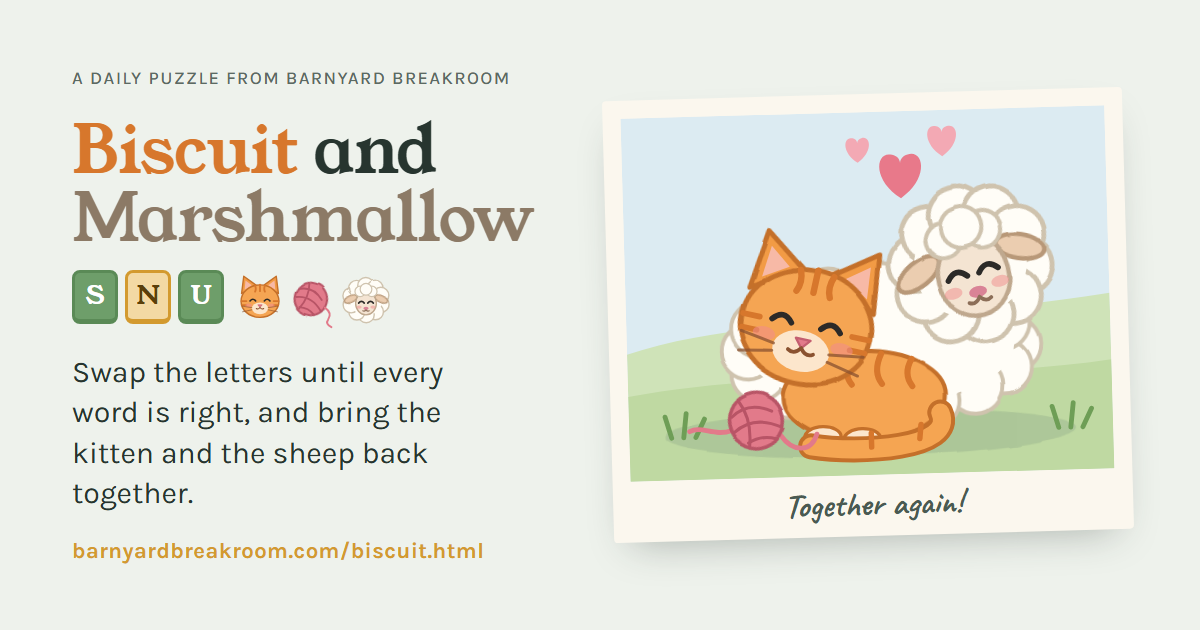
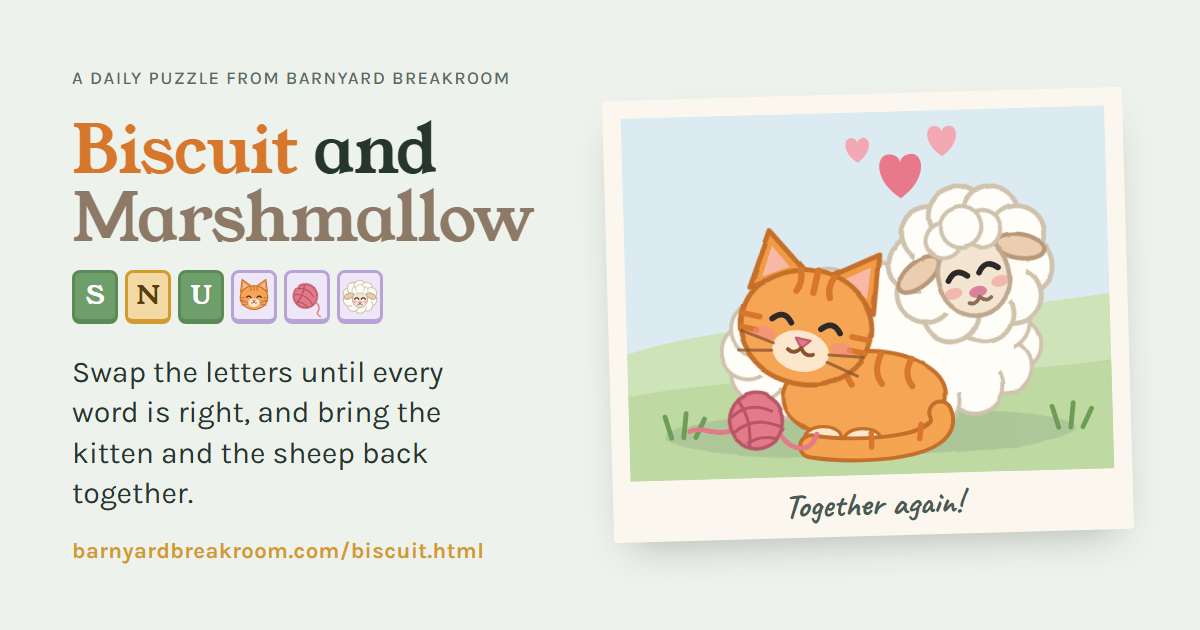
Clearer How to play and lilac tiles for Biscuit, Marshmallow and the yarn
- Biscuit, Marshmallow and her yarn now sit on lilac tiles (a color no letter
  ever takes), so players can tell they're movable; picked-up and drop-target
  outlines match the letter tiles. The link preview's tile row matches too
- How to play: reworded steps 1 to 3 (step 3 notes the lilac tiles never change
  color), with pictures for splitting a line (HEN / OWL), a board one swap from
  solved, and the three star levels; plus "Stuck?" tips at the end
- Tests: check the How to play pictures and tips, and give tests that play a
  whole game more time so they don't time out when every test runs at once

Changed region(s): [[0.185, 0.4222, 0.3392, 0.5127]]

diff --git a/public/biscuit.css b/public/biscuit.css
@@ -3,21 +3,21 @@
   --tile:#FFFFFF; --tile-line:#B9C5BD; --tile-ink:#27352F;
   --good:#6E9E6A; --good-line:#5A8A56; --near:#F3D9A4; --near-line:#D39A2F; --near-ink:#5A3F0B;
   --well:#E6ECE5; --bar:#3A68AE; --bar-today:#C07E14; --track:#E8EDE9; --star:#E0A526; --star-off:#D5DDD6;
-  --biscuit:#D7772C; --mallow:#8C7A66; --ground-a:#C9E0AE; --ground-b:#B5D493;
+  --biscuit:#D7772C; --mallow:#8C7A66; --ground-a:#C9E0AE; --ground-b:#B5D493; --lilac:#EEE7F7; --lilac-line:#B7A3D8;
 }
 @media (prefers-color-scheme:dark){
   :root:not([data-theme="light"]){
     --tile:#2B3633; --tile-line:#4A5853; --tile-ink:#E7ECE6;
     --good:#5E8F5A; --good-line:#86B882; --near:#6B5222; --near-line:#C9982F; --near-ink:#FBE7BD;
     --well:#1A2220; --bar:#6A92D8; --bar-today:#B37A1E; --track:#2A3431; --star:#E8B85A; --star-off:#3A4642;
-    --biscuit:#F0A060; --mallow:#D8CCBC; --ground-a:#34482F; --ground-b:#3F5A38;
+    --biscuit:#F0A060; --mallow:#D8CCBC; --ground-a:#34482F; --ground-b:#3F5A38; --lilac:#3B3550; --lilac-line:#8676B3;
   }
 }
 :root[data-theme="dark"]{
   --tile:#2B3633; --tile-line:#4A5853; --tile-ink:#E7ECE6;
   --good:#5E8F5A; --good-line:#86B882; --near:#6B5222; --near-line:#C9982F; --near-ink:#FBE7BD;
   --well:#1A2220; --bar:#6A92D8; --bar-today:#B37A1E; --track:#2A3431; --star:#E8B85A; --star-off:#3A4642;
-  --biscuit:#F0A060; --mallow:#D8CCBC; --ground-a:#34482F; --ground-b:#3F5A38;
+  --biscuit:#F0A060; --mallow:#D8CCBC; --ground-a:#34482F; --ground-b:#3F5A38; --lilac:#3B3550; --lilac-line:#8676B3;
 }
 .wrap>main{max-width:640px;width:100%;justify-self:center}
 .wrap>.tag{max-width:640px;width:100%;justify-self:center;text-align:right}
@@ -41,8 +41,33 @@ details.how summary::-webkit-details-marker{display:none}
 details.how summary::before{content:"+ ";color:var(--ochre)}
 details.how[open] summary::before{content:"– "}
 details.how ol{margin:8px 0 4px;padding-left:20px}
-details.how li{margin:3px 0}
 details.how b[class^="k-"]{padding:0 6px;border-radius:4px;border:1.5px solid}
+/* How-to pictures: mini tiles in the game's colors */
+details.how li{margin:3px 0 12px}
+.howpic{display:flex;flex-wrap:wrap;align-items:center;gap:10px 14px;margin:8px 0 2px}
+.mt{width:26px;height:26px;box-sizing:border-box;display:grid;place-items:center;border-radius:5px;border:1.5px solid var(--tile-line);border-bottom-width:2.5px;background:var(--tile);color:var(--tile-ink);font:400 15px/1 "Young Serif",Georgia,serif;font-style:normal}
+.mt.g{background:var(--good);border-color:var(--good-line);color:#fff}
+.mt.a{background:var(--lilac);border-color:var(--lilac-line)}
+.mt.a svg{width:96%;height:96%;overflow:visible}
+.mwords{display:grid;grid-template-columns:repeat(7,26px);gap:4px}
+.mwords .br{grid-row:2;margin:1px 2px 0;padding-top:2px;border:1.5px solid var(--ok);border-top:0;border-radius:0 0 6px 6px;text-align:center;font:700 11px/1.2 Karla,sans-serif;letter-spacing:.08em;color:var(--ok)}
+.mcap{font-size:13px;line-height:1.3;color:var(--ink-soft)}
+.mgrid{display:grid;grid-template-columns:repeat(3,26px);gap:4px;padding:6px;border-radius:8px;background:var(--well)}
+.mgrid.five{grid-template-columns:repeat(5,26px)}
+.mt.h{visibility:hidden}
+.mt.a.pk{box-shadow:0 0 0 2px var(--cobalt)}
+.mboard{position:relative;flex:none;margin-left:14px}
+.mswap{position:absolute;inset:0;width:100%;height:100%;overflow:visible;color:var(--cobalt);pointer-events:none}
+.howpic .mcap{flex:1 1 180px;max-width:32ch}
+.mcap b{color:var(--ink)}
+/* The "Stuck?" tips at the end of How to play */
+.stuck{margin:4px 0 6px;padding:10px 14px;border-radius:10px;background:var(--well);border-left:4px solid var(--ochre)}
+.stuck b{color:var(--ink)}
+.stuck ul{margin:4px 0 0;padding-left:18px}
+details.how .stuck li{margin:3px 0}
+.mstar{display:inline-flex;align-items:center;gap:6px;padding:3px 10px 3px 8px;border-radius:999px;background:var(--well);font-size:13px;color:var(--ink-soft)}
+.mstar .s{color:var(--star);letter-spacing:1px}
+.mstar .off{color:var(--star-off)}
 .k-g{background:var(--good);border-color:var(--good-line);color:#fff}
 .k-y{background:var(--near);border-color:var(--near-line);color:var(--near-ink)}
 .k-w{background:var(--tile);border-color:var(--tile-line);color:var(--tile-ink)}
@@ -69,14 +94,13 @@ details.how b[class^="k-"]{padding:0 6px;border-radius:4px;border:1.5px solid}
 .tile.g{background:var(--good);border-color:var(--good-line);color:#fff;cursor:default}
 .tile.y{background:var(--near);border-color:var(--near-line);color:var(--near-ink)}
 /* Animals never change color */
-.tile.animal{background:transparent;border-color:transparent}
-.tile.animal svg{width:112%;height:112%;overflow:visible;pointer-events:none}
+/* Biscuit, Marshmallow and the yarn sit on lilac tiles: clearly tiles you can move, in a color no letter ever takes */
+.tile.animal{background:var(--lilac);border-color:var(--lilac-line)}
+.tile.animal svg{width:94%;height:94%;overflow:visible;pointer-events:none}
 .tile:focus-visible{outline:3px solid var(--cobalt);outline-offset:2px;z-index:2}
 .tile.picked{box-shadow:0 0 0 3px var(--cobalt);transform:translateY(-3px)}
-.tile.animal.picked{box-shadow:none;filter:drop-shadow(0 0 3px var(--cobalt)) drop-shadow(0 0 3px var(--cobalt))}
 .tile.lifted{opacity:.3}
 .tile.target{box-shadow:0 0 0 3px var(--ochre)}
-.tile.animal.target{box-shadow:none;filter:drop-shadow(0 0 3px var(--ochre)) drop-shadow(0 0 3px var(--ochre))}
 .tile.nope{animation:nope .35s ease}
 @keyframes nope{25%,75%{transform:translateX(-3px)}50%{transform:translateX(3px)}}
 .ghost{position:fixed;z-index:30;pointer-events:none;margin:0;transform:scale(1.08) rotate(-3deg);box-shadow:0 14px 28px -8px rgba(0,0,0,.35);opacity:.95}

diff --git a/public/biscuit.html b/public/biscuit.html
@@ -185,13 +185,38 @@
 
     <details class="how" id="how">
       <summary>How to play</summary>
+      <!-- Each step has a small picture made of mini tiles. biscuit.js draws the animals into [data-a]. -->
       <ol>
-        <li>Drag a tile onto another to swap them, or tap two tiles. You can also move Biscuit the kitten, her bestie Marshmallow the sheep, and her ball of yarn.</li>
-        <li>Make a word along every unbroken line of 3 or more tiles, across and down. Biscuit, Marshmallow or the yarn can split a line into two words, and every word is at least 3 letters long. The board’s shape changes with the day of the week.</li>
-        <li><b class="k-g">Green</b> letters are in the right place and stay put. <b class="k-y">Yellow</b> letters belong somewhere else in their row or column. <b class="k-w">White</b> letters belong in a different row or column.</li>
-        <li>You win when every letter is green and Biscuit is side by side or corner to corner with both Marshmallow and her ball of yarn. (Marshmallow and the yarn don’t need to touch each other.)</li>
-        <li>Use as few swaps as you can. Par, shown next to your swaps, is how many swaps today's board can be solved in. Par or better earns <b>3 stars</b>, up to 10 swaps over par earns <b>2 stars</b>, and more than that earns <b>1 star</b>.</li>
+        <li>Make a word along every line of 3 or more tiles, across and down.</li>
+        <li>Drag a tile onto another to swap them, or tap two tiles. You can also move Biscuit the kitten, her bestie Marshmallow the sheep, and her ball of yarn. Biscuit, Marshmallow or the yarn can split a line into two words. Every word is at least 3 letters long.
+          <div class="howpic" role="img" aria-label="Example: Marshmallow splits a row into two words, HEN and OWL.">
+            <span class="mwords"><i class="mt g">H</i><i class="mt g">E</i><i class="mt g">N</i><i class="mt a" data-a="2"></i><i class="mt g">O</i><i class="mt g">W</i><i class="mt g">L</i><span class="br" style="grid-column:1/4">HEN</span><span class="br" style="grid-column:5/8">OWL</span></span>
+          </div>
+        </li>
+        <li><b class="k-g">Green</b> letters are in the right place and stay put. <b class="k-y">Yellow</b> letters belong somewhere else in their row or column. <b class="k-w">White</b> letters belong in a different row or column. Biscuit, Marshmallow and the yarn sit on lilac tiles that never change color.
+        </li>
+        <li>You win when every letter is green and Biscuit is side by side or corner to corner with both Marshmallow and her ball of yarn. (Marshmallow and the yarn don’t need to touch each other.)
+          <div class="howpic" role="img" aria-label="Example: a small board where every letter is green, but Biscuit and her ball of yarn are the wrong way round. One swap between them puts Biscuit next to both Marshmallow and her yarn, and solves it.">
+            <span class="mboard"><span class="mgrid five"><i class="mt g">S</i><i class="mt g">T</i><i class="mt g">R</i><i class="mt g">U</i><i class="mt g">M</i><i class="mt g">E</i><i class="mt h"></i><i class="mt g">E</i><i class="mt h"></i><i class="mt g">A</i><i class="mt g">T</i><i class="mt a" data-a="2" data-mood="calm"></i><i class="mt g">L</i><i class="mt g">A</i><i class="mt g">P</i><i class="mt a pk" data-a="3"></i><i class="mt h"></i><i class="mt g">A</i><i class="mt h"></i><i class="mt g">L</i><i class="mt a pk" data-a="1" data-mood="calm"></i><i class="mt g">T</i><i class="mt g">Y</i><i class="mt g">P</i><i class="mt g">E</i></span><svg class="mswap" viewBox="0 0 156 156" aria-hidden="true"><path d="M3 109 C-14 111 -14 137 3 139" fill="none" stroke="currentColor" stroke-width="1.8"/><path d="M-3 104.5 l5.5 4.5 l-5.5 4.5 M-3 134.5 l5.5 4.5 l-5.5 4.5" fill="none" stroke="currentColor" stroke-width="1.8" stroke-linecap="round" stroke-linejoin="round"/></svg></span>
+            <span class="mcap">Every letter is green, but Biscuit isn’t next to Marshmallow yet. <b>One swap</b> with her yarn and she’s home!</span>
+          </div>
+        </li>
+        <li>Use as few swaps as you can. Par, shown next to your swaps, is how many swaps today's board can be solved in. Par or better earns <b>3 stars</b>, up to 10 swaps over par earns <b>2 stars</b>, and more than that earns <b>1 star</b>.
+          <div class="howpic" role="img" aria-label="Par or fewer swaps: 3 stars. 1 to 10 over par: 2 stars. More than 10 over: 1 star.">
+            <span class="mstar"><span class="s">★★★</span>par or fewer</span>
+            <span class="mstar"><span class="s">★★<span class="off">★</span></span>1–10 over</span>
+            <span class="mstar"><span class="s">★<span class="off">★★</span></span>more</span>
+          </div>
+        </li>
       </ol>
+      <div class="stuck">
+        <b>Stuck?</b>
+        <ul>
+          <li>Start with the words that already have green letters, and fill in the letters around them.</li>
+          <li>A yellow letter belongs somewhere else in its own row or column, so try it in the other spots along those lines.</li>
+          <li>Leave Biscuit, Marshmallow and the yarn for last. Once the letters are in place, the squares left over are theirs.</li>
+        </ul>
+      </div>
     </details>
 
     <div class="modes">

diff --git a/tests/biscuit.spec.js b/tests/biscuit.spec.js
@@ -116,10 +116,12 @@ async function solve(page) {
     await tile(page, i).click();
     await tile(page, j).click();
   }
-  await expect(page.locator("#result")).toBeVisible();
+  // The win screen follows the celebration, which can be slow when every test runs at once.
+  await expect(page.locator("#result")).toBeVisible({ timeout: 15000 });
 }
 
 test("solving the board reunites the animals, shows the result and survives a reload", async ({ page }) => {
+  test.slow(); // plays a whole game, which can pass 30 seconds when every test runs at once
   await open(page);
   await solve(page);
   await expect(page.getByRole("link", { name: "Read today’s story →" })).toHaveAttribute("href", "./");
@@ -152,6 +154,7 @@ test("progress is kept after a reload", async ({ page }) => {
 });
 
 test("the story page card shows today's progress", async ({ page }) => {
+  test.slow(); // plays a whole game, which can pass 30 seconds when every test runs at once
   await open(page);
   await expect(page.locator(".menu-page[href='biscuit.html']")).toHaveCount(1);
   await page.goto("/");
@@ -172,6 +175,7 @@ test("the story page card shows today's progress", async ({ page }) => {
 });
 
 test("a signed-in player's solved boards are saved to their account", async ({ page }) => {
+  test.slow(); // plays a whole game, which can pass 30 seconds when every test runs at once
   // A stand-in for account.js's window.Account: signed in, with an account that already has one
   // solved day from another device. account.js's own assignment is ignored.
   await page.addInitScript(() => {
@@ -311,4 +315,18 @@ test("stars: par or better is 3, up to 10 over par is 2, more is 1", async ({ pa
     await page.reload();
     await expect(page.locator("#stars")).toHaveAccessibleName(`${stars} star${stars === 1 ? "" : "s"} so far`);
   }
+});
+
+test("How to play has pictures for splitting words, the last swap and stars, with the animals drawn in", async ({
+  page,
+}) => {
+  await open(page);
+  const how = page.locator("#how");
+  if (!(await how.evaluate((d) => d.open))) await how.locator("summary").click();
+  const pictures = how.locator(".howpic");
+  await expect(pictures).toHaveCount(3);
+  for (const pic of await pictures.all()) await expect(pic).toHaveAttribute("aria-label", /\w/);
+  await expect(how.locator("[data-a] svg")).toHaveCount(await how.locator("[data-a]").count());
+  // Tips for when a player is stuck, at the end
+  await expect(how.locator(".stuck")).toContainText("Stuck?");
 });

diff --git a/scripts/og-cards.html b/scripts/og-cards.html
@@ -23,8 +23,8 @@ h1 span{color:#3A68AE}
 .egg.h{background:#F3D9A4;border-color:#D39A2F}.egg.m{background:#DCE2DD}
 .mini{display:grid;grid-template-columns:repeat(6,46px);gap:7px;margin:0 0 28px}
 .mini i{height:46px;border-radius:8px;border:3px solid #B9C5BD;border-bottom-width:5px;background:#fff;display:grid;place-items:center;font:400 26px "Young Serif";font-style:normal;color:#27352F}
-.mini i.g{background:#6E9E6A;border-color:#5A8A56;color:#fff}.mini i.y{background:#F3D9A4;border-color:#D39A2F;color:#5A3F0B}.mini i.a{background:none;border-color:transparent}
-.mini i.a svg{width:52px;height:52px;overflow:visible}
+.mini i.g{background:#6E9E6A;border-color:#5A8A56;color:#fff}.mini i.y{background:#F3D9A4;border-color:#D39A2F;color:#5A3F0B}.mini i.a{background:#EEE7F7;border-color:#B7A3D8}
+.mini i.a svg{width:38px;height:38px;overflow:visible}
 </style>
 <svg width="0" height="0" style="position:absolute"><defs>
 <filter id="wc" x="-15%" y="-15%" width="130%" height="130%"><feTurbulence type="fractalNoise" baseFrequency="0.035" numOctaves="3" seed="7" result="n"/><feDisplacementMap in="SourceGraphic" in2="n" scale="2" xChannelSelector="R" yChannelSelector="G" result="d"/><feGaussianBlur in="d" stdDeviation="0.2"/></filter>

diff --git a/public/biscuit.js b/public/biscuit.js
@@ -539,6 +539,8 @@ function initCloud() {
 }
 
 /* ---------- Start ---------- */
+// The animals in the How to play pictures
+for (const el of document.querySelectorAll("#how [data-a]")) el.innerHTML = animalSvg(el.dataset.a, el.dataset.mood || "happy");
 document.querySelector("#titlePeek .peek-k").innerHTML = ART.kitten();
 document.querySelector("#titlePeek .peek-s").innerHTML = ART.sheep();
 $("puzzleNo").textContent = `No. ${DAY_INDEX + 1} · ${new Date().toLocaleDateString(undefined, { weekday: "long", month: "long", day: "numeric" })} · ${SHAPE}`;
